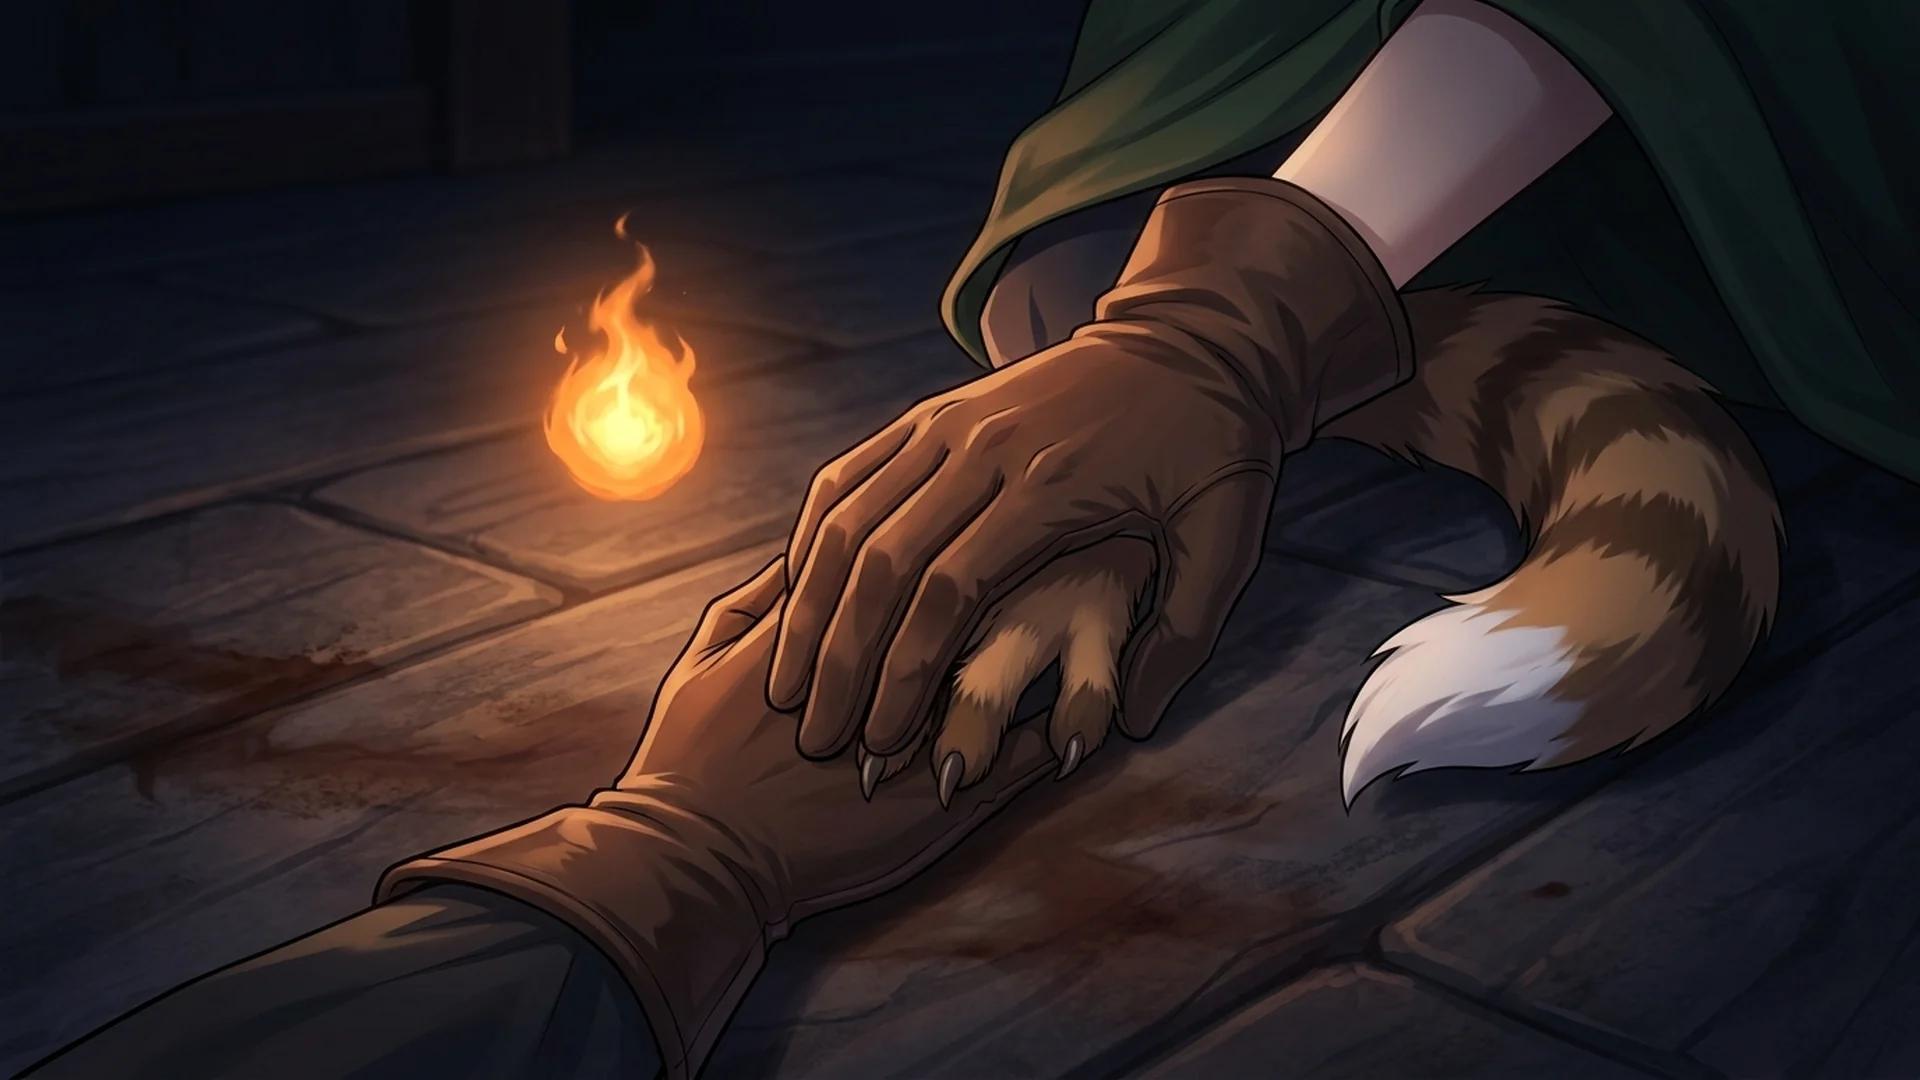
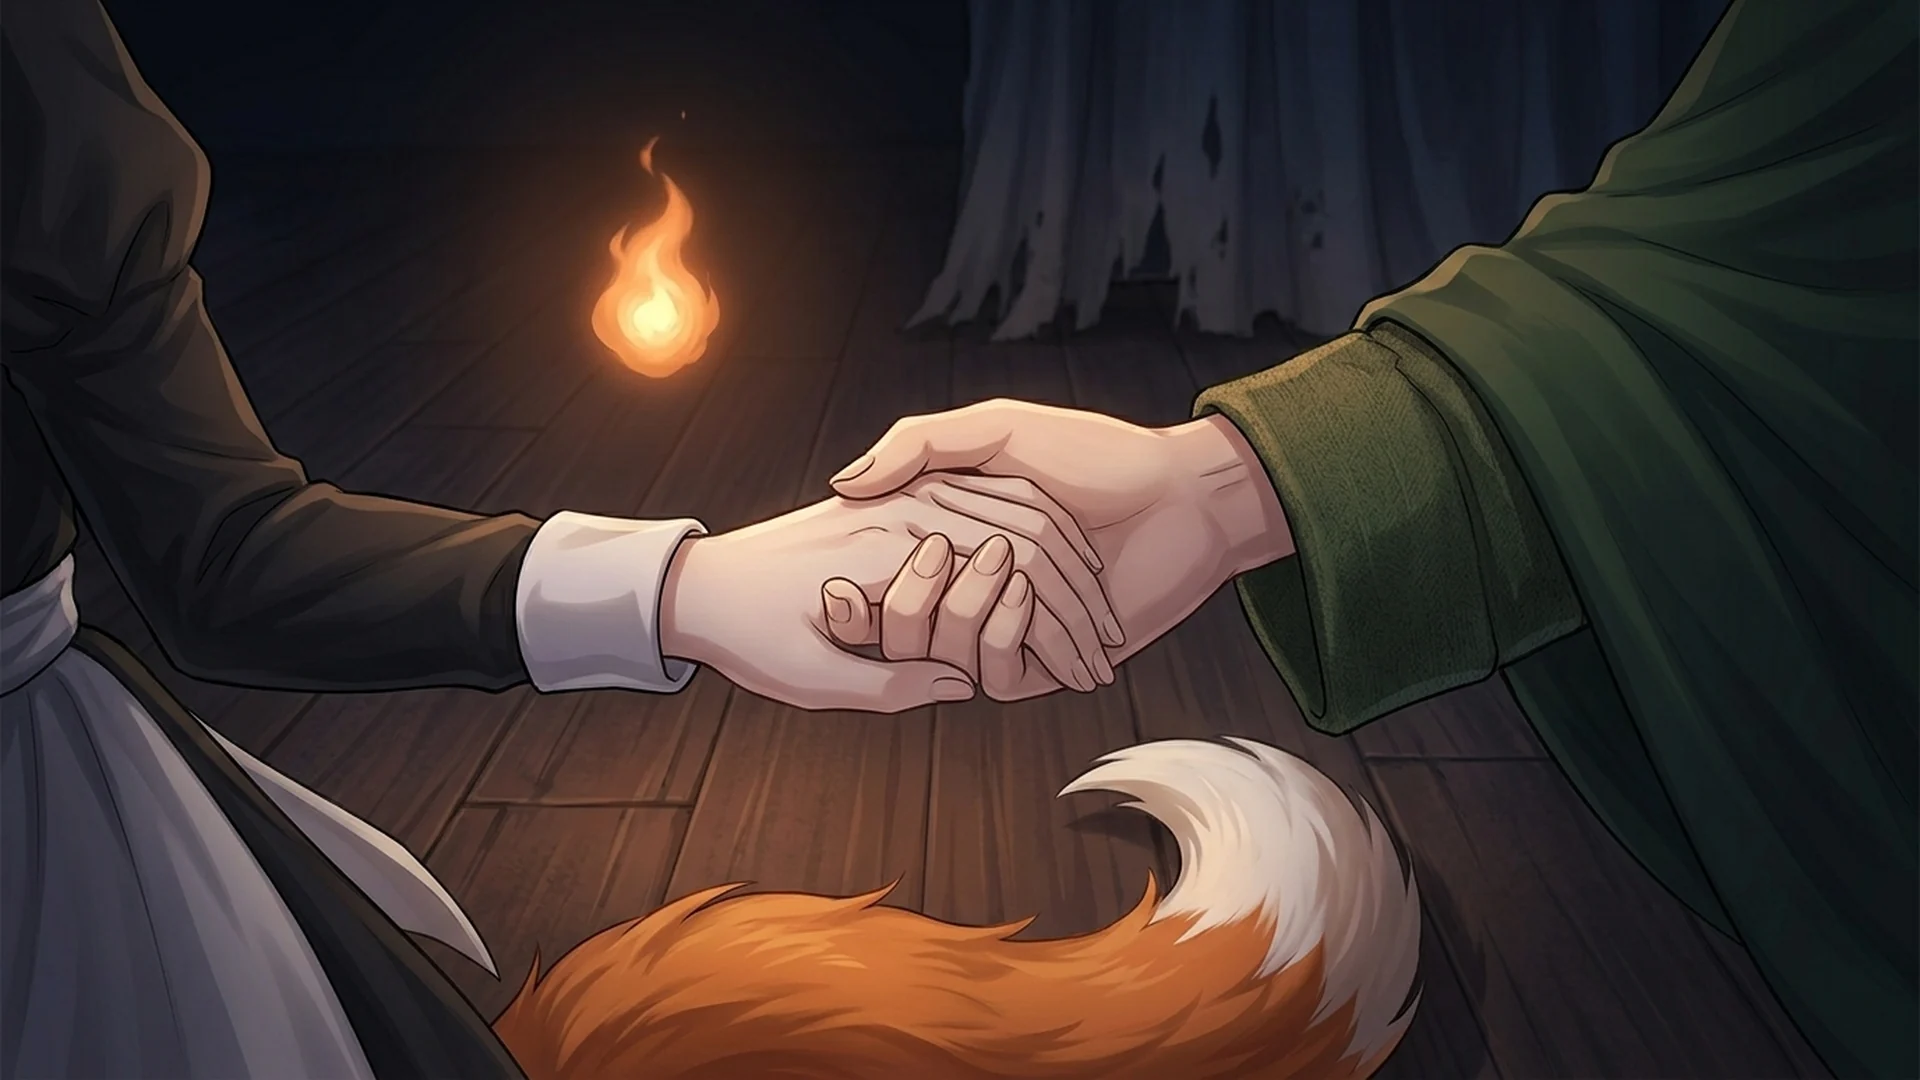
Paint the last seven sandglass event CGs and redraw two
Sian's route endings, the two kings, the shattering hourglass, the true
ending and the return to Seoul. Lili's last moment is redrawn with two
bare clasped hands, and Sian's eye CG puts the clock iris on his left
eye where the eyepatch sits.

diff --git a/apps/sandglass/app/art/slots.generated.ts b/apps/sandglass/app/art/slots.generated.ts
@@ -51,13 +51,20 @@ export const ART_SLOTS: ArtSlots = {
     "cg_fall": "/art/cg/cg_fall.webp?v=b1360073",
     "cg_first_death": "/art/cg/cg_first_death.webp?v=3ba3510a",
     "cg_lanterns": "/art/cg/cg_lanterns.webp?v=a9025a0a",
-    "cg_lili": "/art/cg/cg_lili.webp?v=60db8d6c",
+    "cg_lili": "/art/cg/cg_lili.webp?v=1f24670a",
     "cg_r_back": "/art/cg/cg_r_back.webp?v=3fe6c38c",
     "cg_r_bad": "/art/cg/cg_r_bad.webp?v=0b131a21",
     "cg_r_good": "/art/cg/cg_r_good.webp?v=b3c70dd9",
-    "cg_s_eye": "/art/cg/cg_s_eye.webp?v=7f21fa93",
+    "cg_return": "/art/cg/cg_return.webp?v=25f402e7",
+    "cg_s_bad": "/art/cg/cg_s_bad.webp?v=b9e0b250",
+    "cg_s_blade": "/art/cg/cg_s_blade.webp?v=7c924e8a",
+    "cg_s_eye": "/art/cg/cg_s_eye.webp?v=2c7733d0",
+    "cg_s_good": "/art/cg/cg_s_good.webp?v=234d9915",
     "cg_sand": "/art/cg/cg_sand.webp?v=83d9060a",
+    "cg_shatter": "/art/cg/cg_shatter.webp?v=aba102aa",
     "cg_tea": "/art/cg/cg_tea.webp?v=18a29b85",
+    "cg_true": "/art/cg/cg_true.webp?v=5410f9fb",
+    "cg_two_kings": "/art/cg/cg_two_kings.webp?v=636d2f96",
     "cg_unmask": "/art/cg/cg_unmask.webp?v=5d4378da"
   },
   char: {
